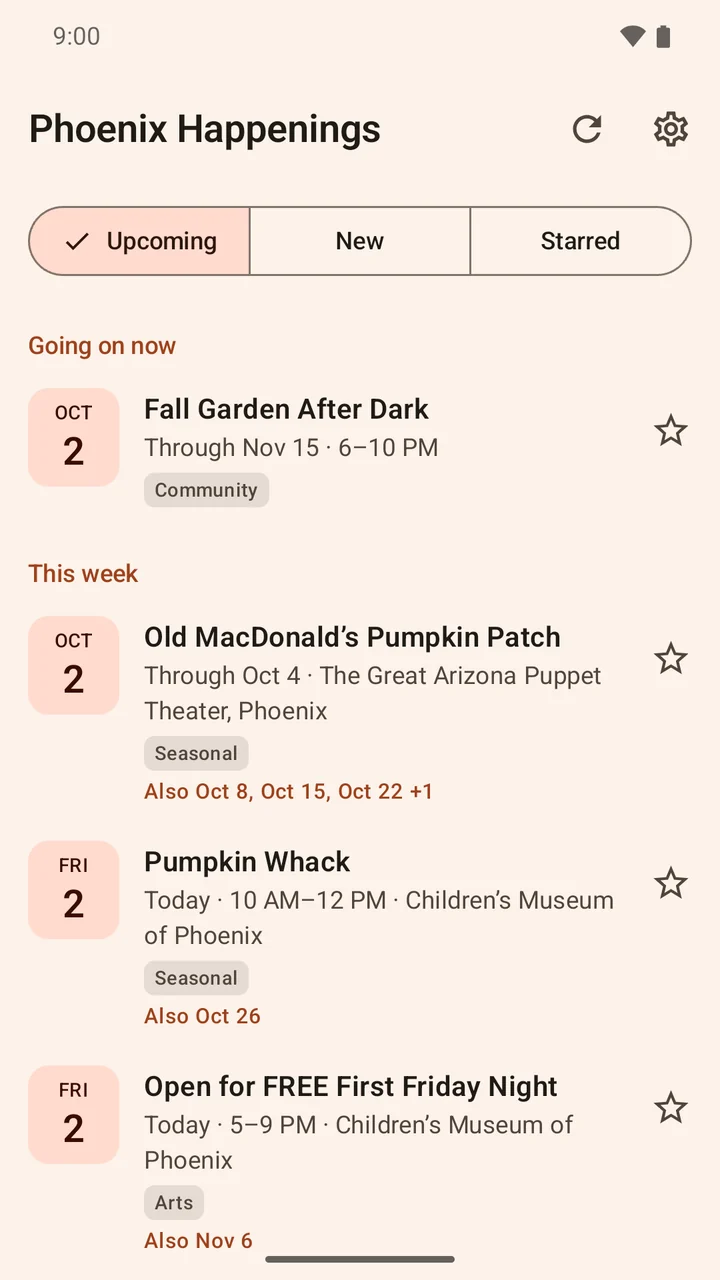
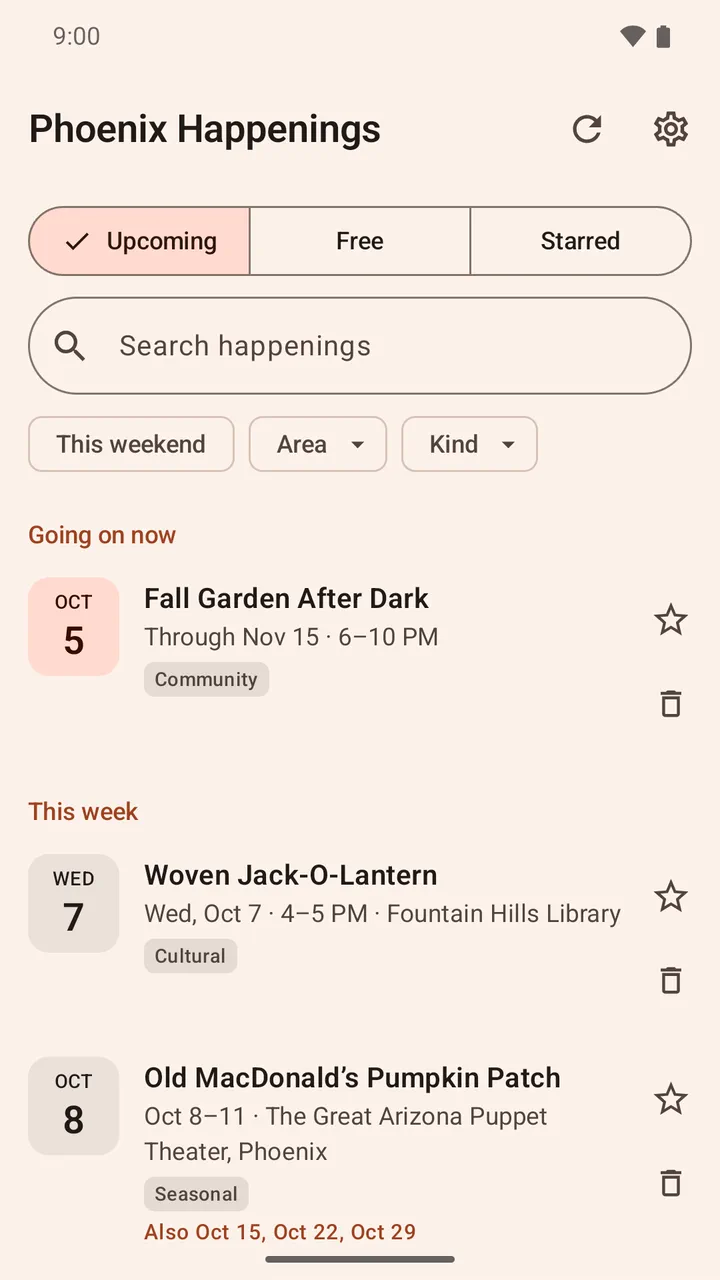
Show Home's new Free tab: fresh home screenshot and caption
The app's New tab is now Free (version 1.4), so the first screenshot and its
caption show Upcoming, Free and Starred.

diff --git a/index.html b/index.html
@@ -301,7 +301,7 @@
               <div class="device-speaker" aria-hidden="true"></div>
               <img src="assets/screenshots/1.webp" width="720" height="1280" alt="Upcoming events grouped by what is happening now and this week" loading="lazy">
             </div>
-            <figcaption><strong>See what's nearby</strong><span>Upcoming, new, and starred events stay easy to scan.</span></figcaption>
+            <figcaption><strong>See what's nearby</strong><span>Upcoming, free, and starred events stay easy to scan.</span></figcaption>
           </figure>
 
           <figure class="screenshot-card">
